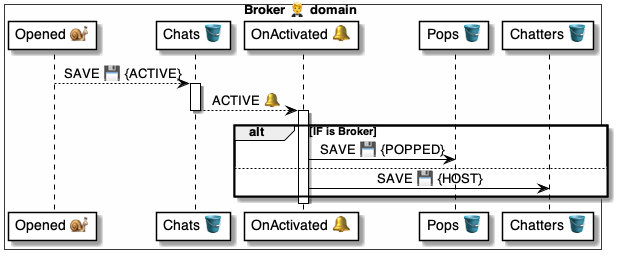
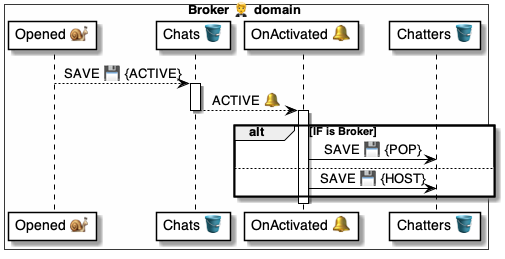
.

diff --git a/4 ⚙ Solution/20 🧑🦰 UI/Brokers 🤵/🤵🪣 Broker tables/Chats 💬 table/🪣 Chats/🤵 Broker.Chats 🪣 table.md b/4 ⚙ Solution/20 🧑🦰 UI/Brokers 🤵/🤵🪣 Broker tables/Chats 💬 table/🪣 Chats/🤵 Broker.Chats 🪣 table.md
@@ -68,7 +68,7 @@ Handlers:
 |`DETAILED`|[OnDetailed](<../🪣🔔 3 Detailed/🤵 OnChatDetailed 📃 handler.md>) | [`Open@`](<../../../../Notifiers 📣/📣🅰 Notifier methods/Chats 💬 Open 🤵🐌📣/📣 Open 🐌 msg.md>) | [Notifier 📣](<../../../../Notifiers 📣/📣 Notifier domain/📣 Notifier 👥 domain.md>)
 |`OPENED`|[OnOpened](<../🪣🔔 4 Opened/🤵 OnChatOpened 📃 script.md>) | [`Present@`](<../../../../../50 🫥 Agent domains/Finders 🔎/🔎🅰 Finder methods/Present 🤵🐌🔎/🔎 Present 🐌 msg.md>) | [Finder 🔎](<../../../../../50 🫥 Agent domains/Finders 🔎/🔎 Finder agent/🔎 Finder 🫥 agent.md>)
 |`PRESENTED`|[OnPresented](<../🪣🔔 5 Presented/🤵 OnChatPresented 📃 handler.md>) | [`Prompt@`](<../../../🤵🅰 Broker methods/Chats 💬 Prompt 🤗🐌🤵/🤵 Prompt 🐌 msg.md>) | [Notifier 📣](<../../../../Notifiers 📣/📣 Notifier domain/📣 Notifier 👥 domain.md>)
-|`STARTED`|[OnStarted](<../🪣🔔 6 Activated/🤵 OnChatActivated 📃 handler.md>) | [`Hello@`](<../../../../../41 🎭 Domain Roles/Hosts 🤗/🤗🅰 Host methods/Hello 🤵🐌🤗/🤗 Hello 🐌 msg.md>) | [Host 🤗](<../../../../../41 🎭 Domain Roles/Hosts 🤗/🤗 Host role/🤗🎭 Host role.md>)
+|`STARTED`|[OnStarted](<../🪣🔔 6 Activated/🤵 OnChatStarted 📃 handler.md>) | [`Hello@`](<../../../../../41 🎭 Domain Roles/Hosts 🤗/🤗🅰 Host methods/Hello 🤵🐌🤗/🤗 Hello 🐌 msg.md>) | [Host 🤗](<../../../../../41 🎭 Domain Roles/Hosts 🤗/🤗 Host role/🤗🎭 Host role.md>)
 |`UPDATED`|[OnLocalized](<../🪣🔔 7 Localized/🤵 OnChatLocalized 📃 handler.md>) | [`Translate@`](<../../../../../45 🤲 Helper domains/Graphs 🕸/🕸🅰 Graph methods/👥🚀🕸 Translate/🕸 Translate 📃 handler.md>) | [Graph 🕸](<../../../../../45 🤲 Helper domains/Graphs 🕸/🕸 Graph helper/🕸🤲 Graph helper.md>)
 |`ABANDONED`|[OnAbandoned](<../🪣🔔 8 Abandoned/🤵 OnChatAbandoned 📃 handler.md>) | [`Abandoned@`](<../../../../../41 🎭 Domain Roles/Hosts 🤗/🤗🅰 Host methods/Abandoned 🤵🐌🤗/🤗 Abandoned 🐌 msg.md>) | [Host 🤗](<../../../../../41 🎭 Domain Roles/Hosts 🤗/🤗 Host role/🤗🎭 Host role.md>)
 |`DONE`|[OnDone](<../🪣🔔 9 Done/🤵 OnChatDone 📃 handler.md>)

diff --git a/4 ⚙ Solution/20 🧑🦰 UI/Brokers 🤵/🤵🪣 Broker tables/Chats 💬 table/🪣🔔 6 Activated/🤵 OnChatActivated 📃 handler.md b/4 ⚙ Solution/20 🧑🦰 UI/Brokers 🤵/🤵🪣 Broker tables/Chats 💬 table/🪣🔔 6 Activated/🤵 OnChatActivated 📃 handler.md
@@ -1,6 +1,12 @@
 # 🤵 OnChatActivated ⚙ handler
 
-<!-- TODO: Finish -->
+<br/>
+
+## Diagram
+
+![alt text](<🤵 OnChatActivated ⚙ uml.png>)
+
+<br/>
 
 ## Script
 
@@ -8,9 +14,20 @@
 ```yaml
 📃 OnChatActivated:
 
-# Add the HOST participant
-- SAVE|Broker.Chatters:
-    Chat: $Chat.ID
-    Domain: $Chat.Host
-    Role: HOST
+# On Pop@Broker
+- IF|$Chat.Host.Is($.Hosted.Domain):
+
+    Then: # Pop the Chat 
+        SAVE|Broker.Chatters:
+            .State: POP
+            Chat: $Chat.ID
+            Domain: $.Hosted.Domain
+            Role: VAULT
+
+    Else: # Add the HOST participant
+        SAVE|Broker.Chatters:
+            .State: HOST
+            Chat: $Chat.ID
+            Domain: $Chat.Host
+            Role: HOST
 ```

diff --git a/4 ⚙ Solution/20 🧑🦰 UI/Brokers 🤵/🤵🪣 Broker tables/Chats 💬 table/🪣🔔 5 Presented/🤵 OnChatPresented 📃 handler.md b/4 ⚙ Solution/20 🧑🦰 UI/Brokers 🤵/🤵🪣 Broker tables/Chats 💬 table/🪣🔔 5 Presented/🤵 OnChatPresented 📃 handler.md
@@ -16,6 +16,7 @@
 
 # Add the Broker to the chat
 - SAVE|Broker.Chatters:
+    .State: BROKER
     Chat: $Chat.ID
     Domain: $.Hosted.Domain
     Role: VAULT
